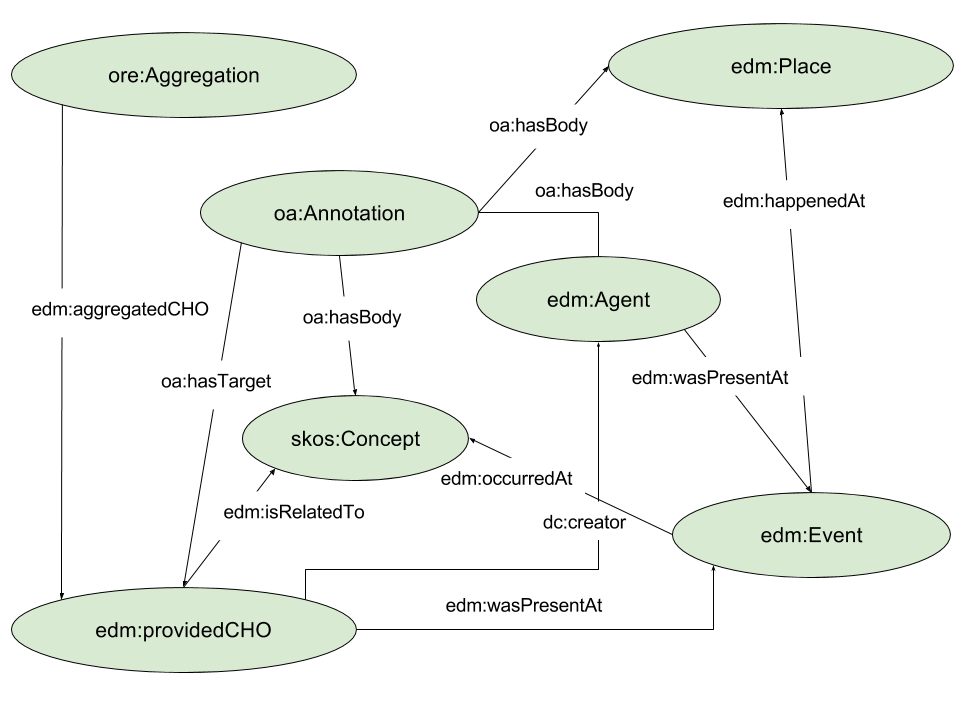
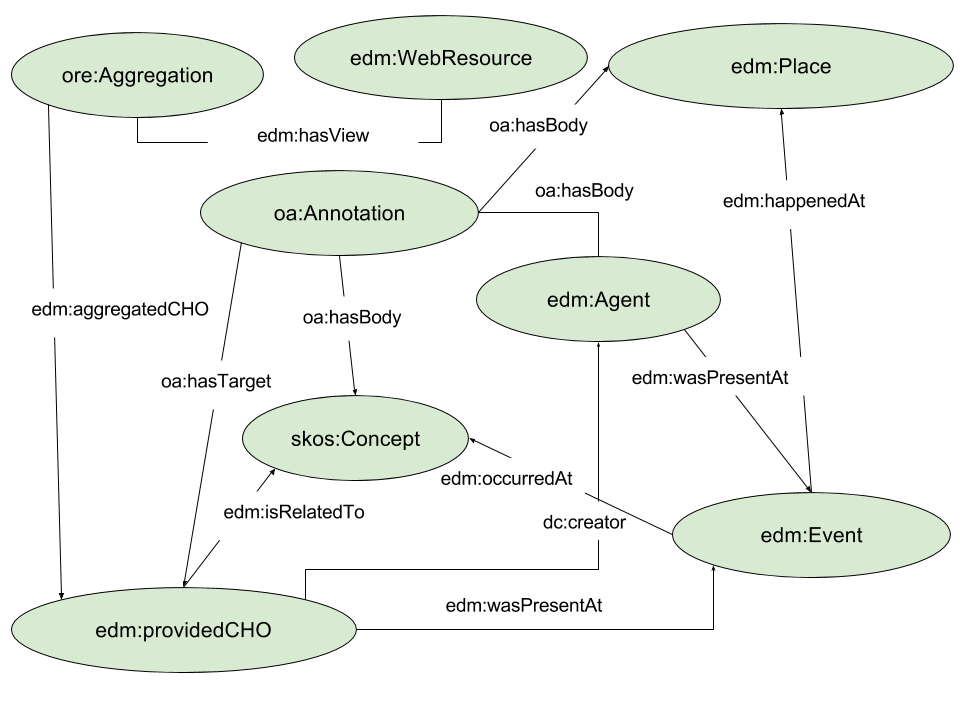
aggiunta WebResource

Changed region(s): [[0.0312, 0.0, 0.625, 0.2139], [0.0, 0.0611, 0.0625, 0.0917]]

diff --git a/Web/ontology.html b/Web/ontology.html
@@ -53,7 +53,7 @@
 		<li><b>edm:Event</b> <p>An event is a change of states in cultural, social or physical systems, regardless of scale, brought about by a series or group of coherent physical, cultural, technological or legal phenomena (E5 Event in CIDOC CRM) or a set of coherent phenomena or cultural manifestations bounded in time and space (E4 Period in CIDOC CRM).</p></li>
 		<li><b>edm:Place</b> <p>An extent in space, in particular on the surface of the earth, in the pure sense of physics: independent from temporal phenomena and matter (CIDOC CRM);</p></li>
 		<li><b>edm:ProvidedCHO</b> <p>This class includes the Cultural Heritage objects that Europeana collects descriptions about; within CoW-LD this class is used to model letters;</p></li>
-		
+		<li><b>edm:WebResource</b> <p>BLA BLA BLA</p>
 	</ul>	
 	The following figure shows the employed classes and the main relationships.
 	</p>
